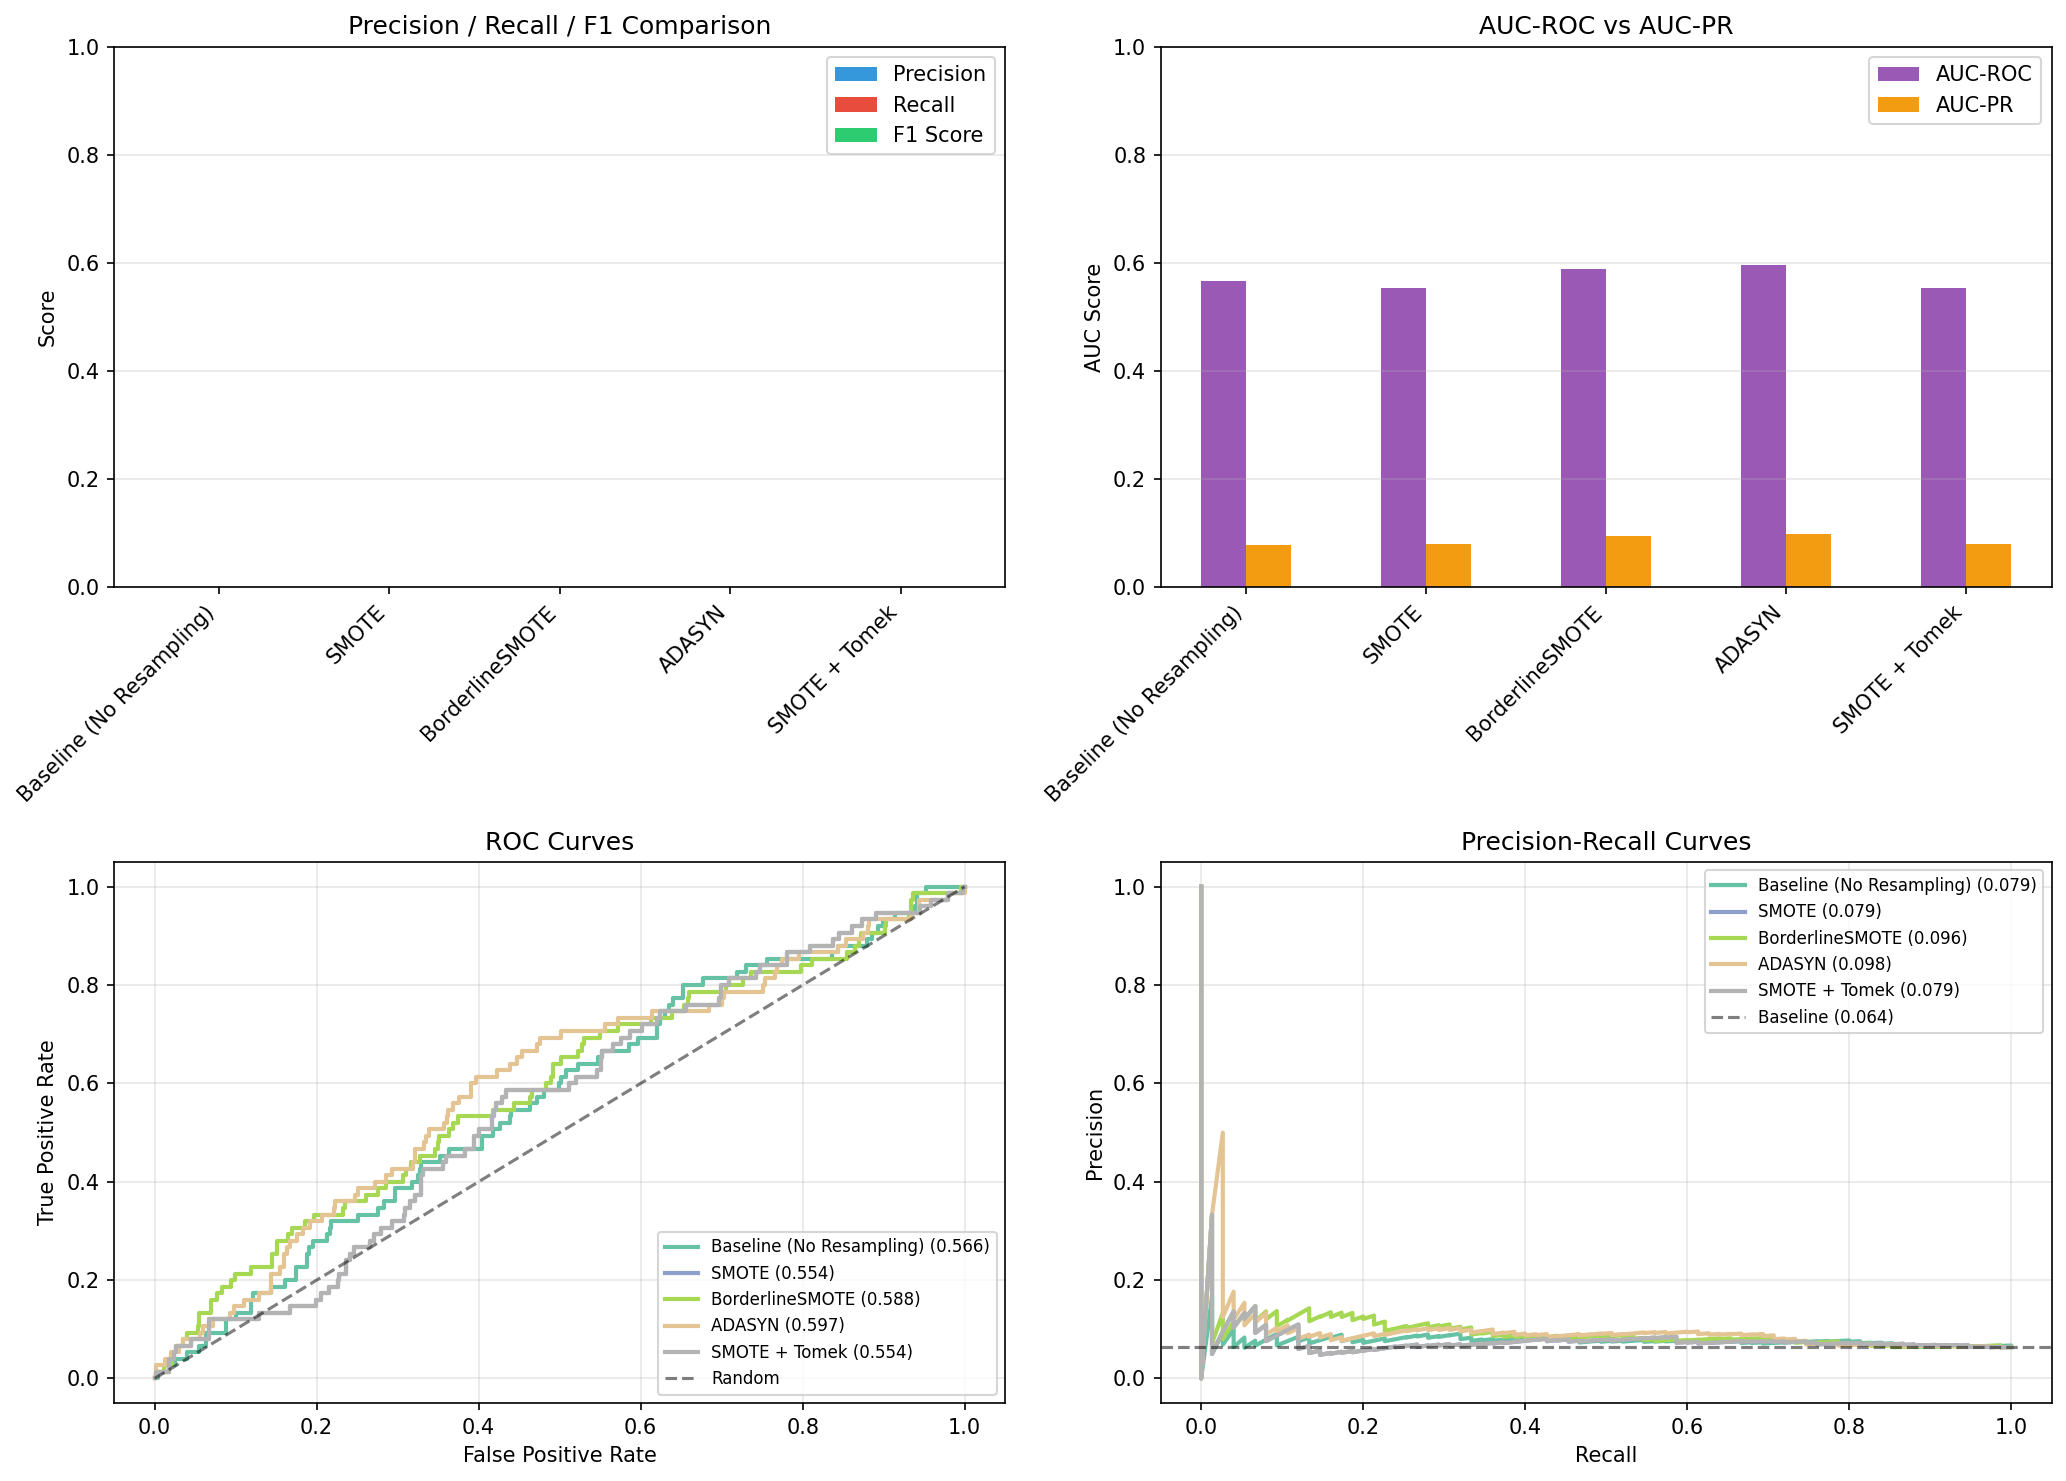
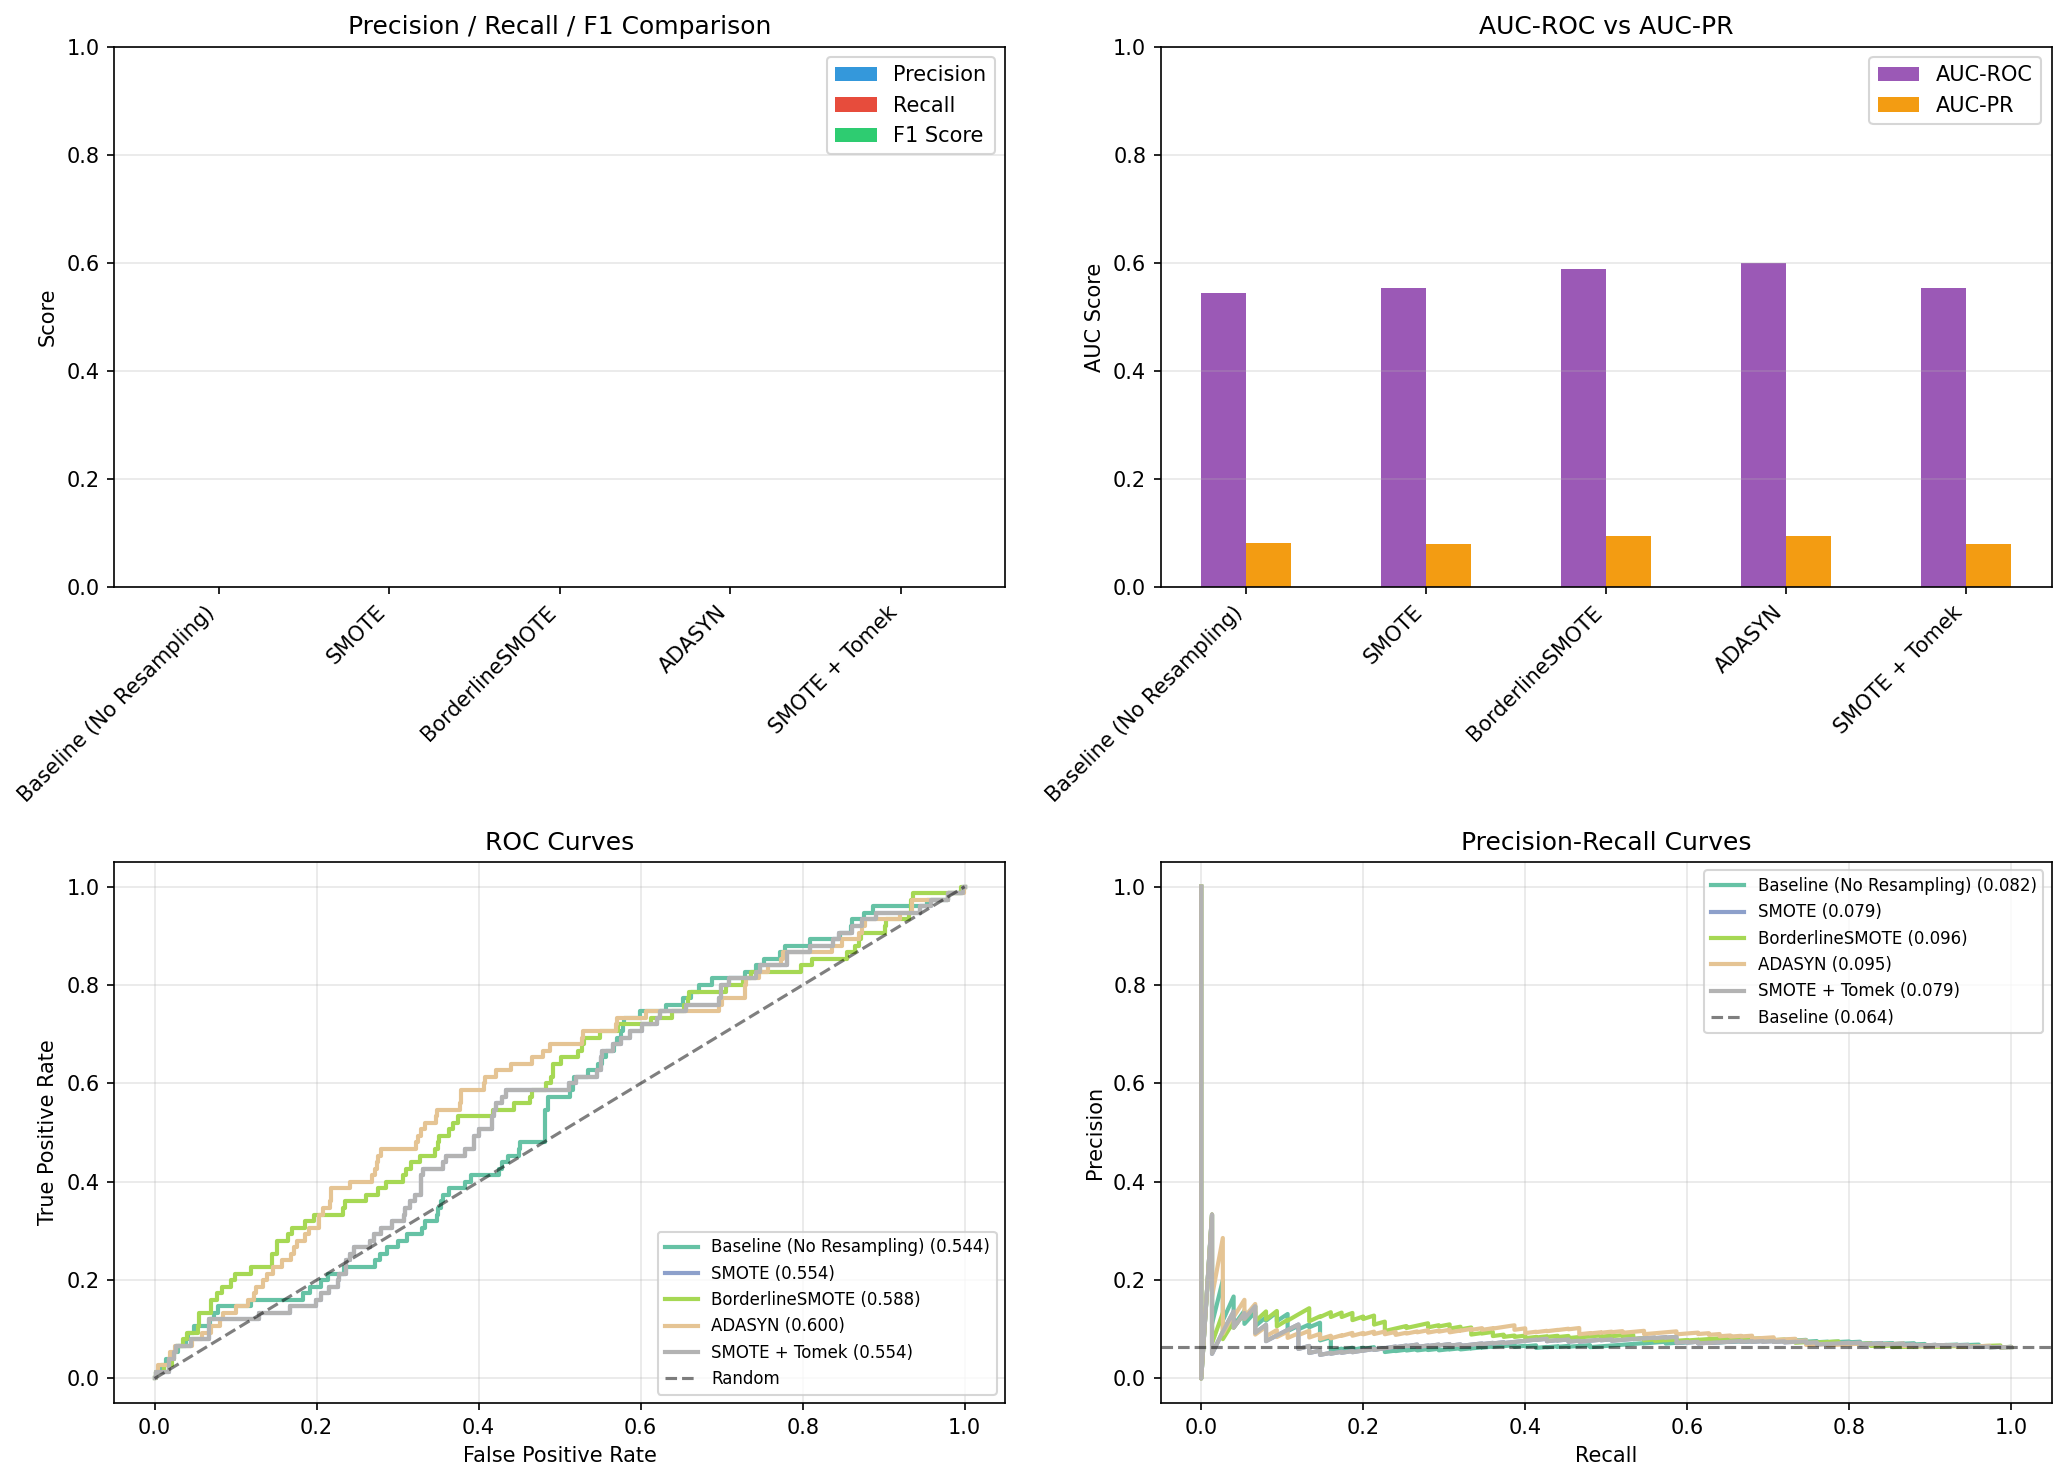
testing different sampling

diff --git a/helpers/compare_resampling.py b/helpers/compare_resampling.py
@@ -67,7 +67,7 @@ def compare_resampling_techniques(X_train, y_train, X_test, y_test, random_state
             X_resampled, y_resampled = X_train, y_train
         
         # Train Logistic Regression
-        model = LogisticRegression(max_iter=1000, random_state=random_state)
+        model = LogisticRegression(max_iter=1000, random_state=random_state, class_weight='balanced')
         model.fit(X_resampled, y_resampled)
         
         # Predictions
@@ -79,9 +79,9 @@ def compare_resampling_techniques(X_train, y_train, X_test, y_test, random_state
             'Technique': name,
             'Train Samples': len(y_resampled),
             'Minority Samples': sum(y_resampled == 1),
-            'Precision': precision_score(y_test, y_pred),
-            'Recall': recall_score(y_test, y_pred),
-            'F1 Score': f1_score(y_test, y_pred),
+            'Precision': precision_score(y_test, y_pred, zero_division=0),
+            'Recall': recall_score(y_test, y_pred, zero_division=0),
+            'F1 Score': f1_score(y_test, y_pred, zero_division=0),
             'AUC-ROC': roc_auc_score(y_test, y_proba),
             'AUC-PR': average_precision_score(y_test, y_proba)
         }
